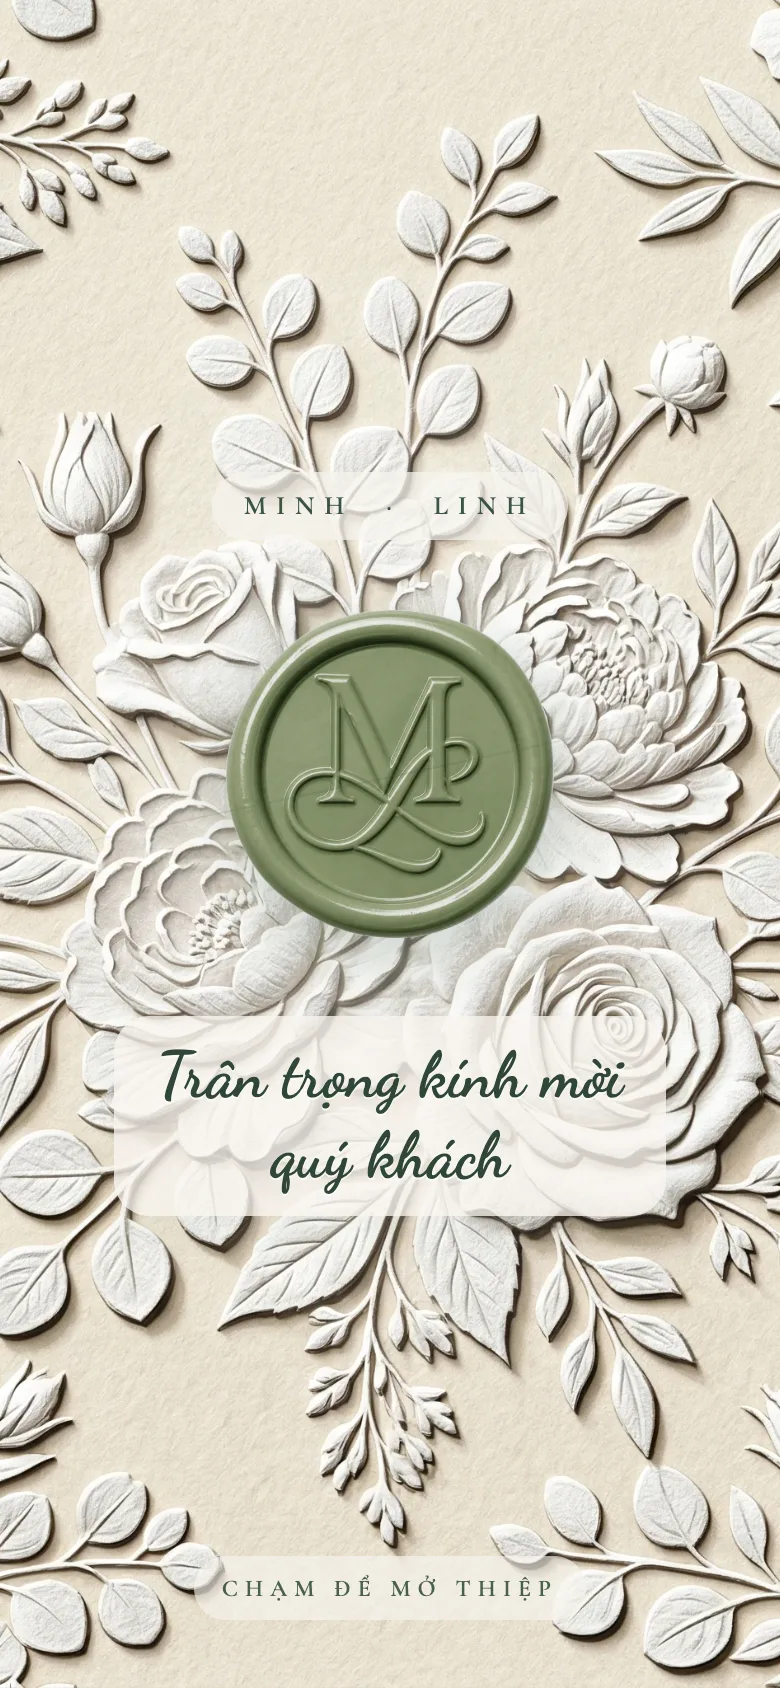
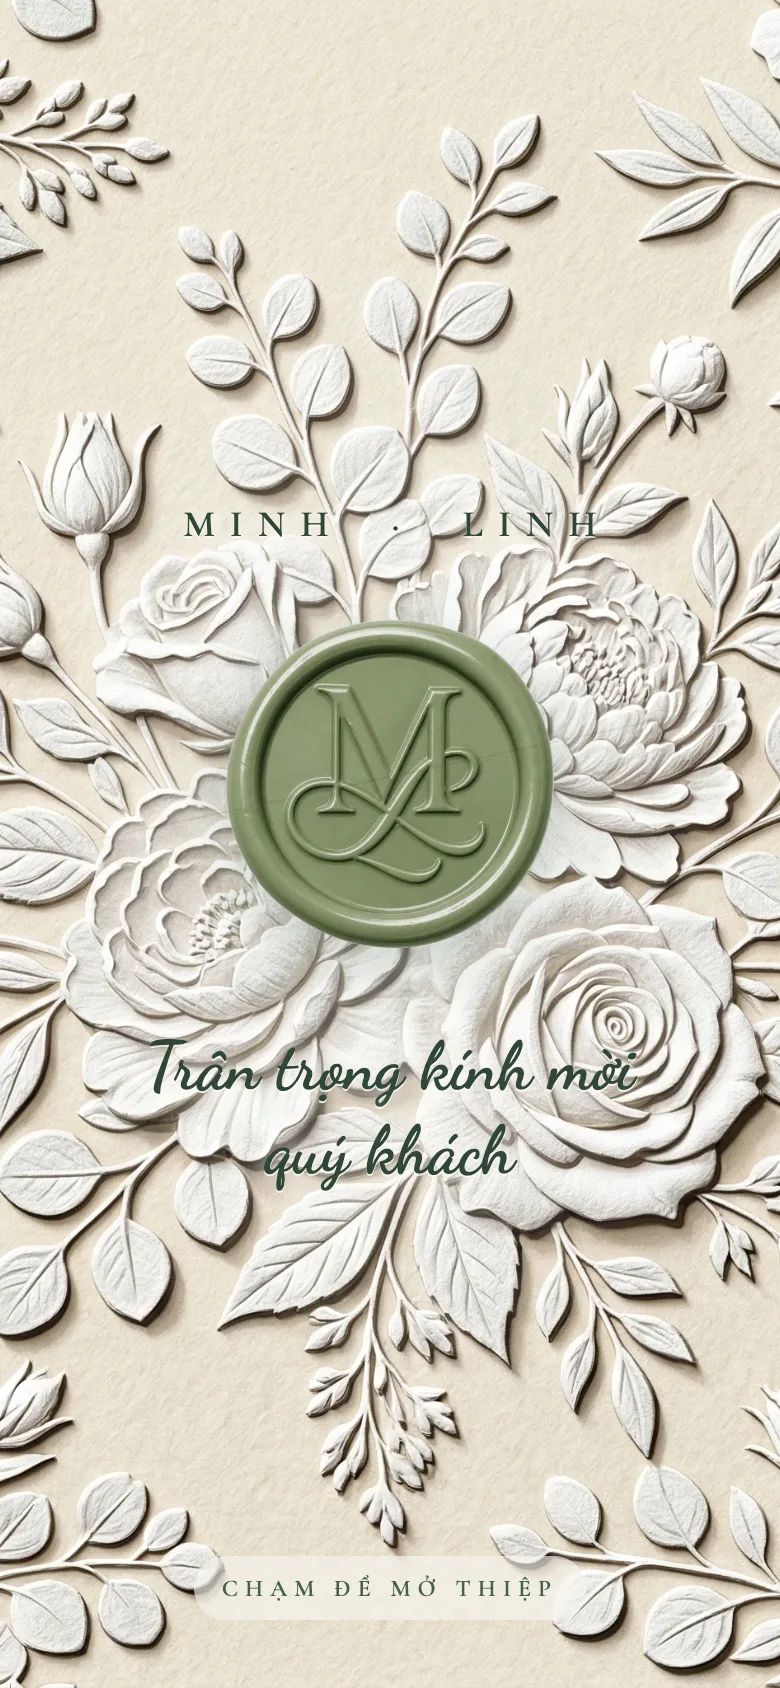
gen_262: phong bì — tên to đậm, bỏ nền xám sau chữ mời

Changed region(s): [[0.1231, 0.5853, 0.8615, 0.7393], [0.2769, 0.2773, 0.7692, 0.5853], [0.2462, 0.3081, 0.2769, 0.3389]]

diff --git a/products/Invitation/Wedding/gen_262_emboss-paper-sage/index.html b/products/Invitation/Wedding/gen_262_emboss-paper-sage/index.html
@@ -93,11 +93,10 @@ a { color: inherit; text-decoration: none; }
   transform: rotate(-12deg); pointer-events: none;
 }
 .envelope-names {
-  font-family: var(--font-heading); font-weight: 600;
-  font-size: 0.82rem; letter-spacing: 0.38em; text-transform: uppercase;
-  color: var(--sage); margin-bottom: 2.2rem;
-  padding: 6px 16px; border-radius: 999px; background: rgba(247,244,238,0.72);
-  text-shadow: 0 0 10px rgba(247,244,238,1);
+  font-family: var(--font-heading); font-weight: 700;
+  font-size: clamp(1.15rem, 4.6vw, 1.4rem); letter-spacing: 0.42em; text-transform: uppercase;
+  color: #2F4636; margin-bottom: 2rem; padding-left: 0.42em;
+  text-shadow: 0 0 10px rgba(247,244,238,1), 0 0 22px rgba(247,244,238,0.9), 0 1px 0 rgba(255,255,255,0.7);
   opacity: 0; animation: fadeUp 1.2s var(--ease-out) 0.3s forwards;
 }
 .envelope-seal {
@@ -109,11 +108,9 @@ a { color: inherit; text-decoration: none; }
 .envelope-seal img { width: 100%; height: 100%; object-fit: contain; }
 .envelope.opening .envelope-seal { animation: sealPress 0.55s var(--ease-out) forwards; }
 .envelope-invite {
-  font-family: var(--font-script); font-weight: 600; font-size: clamp(2rem, 7.4vw, 2.7rem);
+  font-family: var(--font-script); font-weight: 700; font-size: clamp(2.1rem, 7.8vw, 2.8rem);
   color: #2F4636; margin-top: 2.4rem; line-height: 1.25; text-align: center;
-  padding: 10px 22px; border-radius: 18px; background: rgba(247,244,238,0.78);
-  text-shadow: 0 0 14px rgba(247,244,238,1), 0 1px 0 rgba(255,255,255,0.8);
-  box-shadow: 0 6px 24px rgba(58,85,66,0.08);
+  text-shadow: 0 0 12px rgba(247,244,238,1), 0 0 26px rgba(247,244,238,0.95), 0 1px 0 rgba(255,255,255,0.8);
   opacity: 0; animation: fadeUp 1.2s var(--ease-out) 0.9s forwards;
 }
 .envelope-hint {
